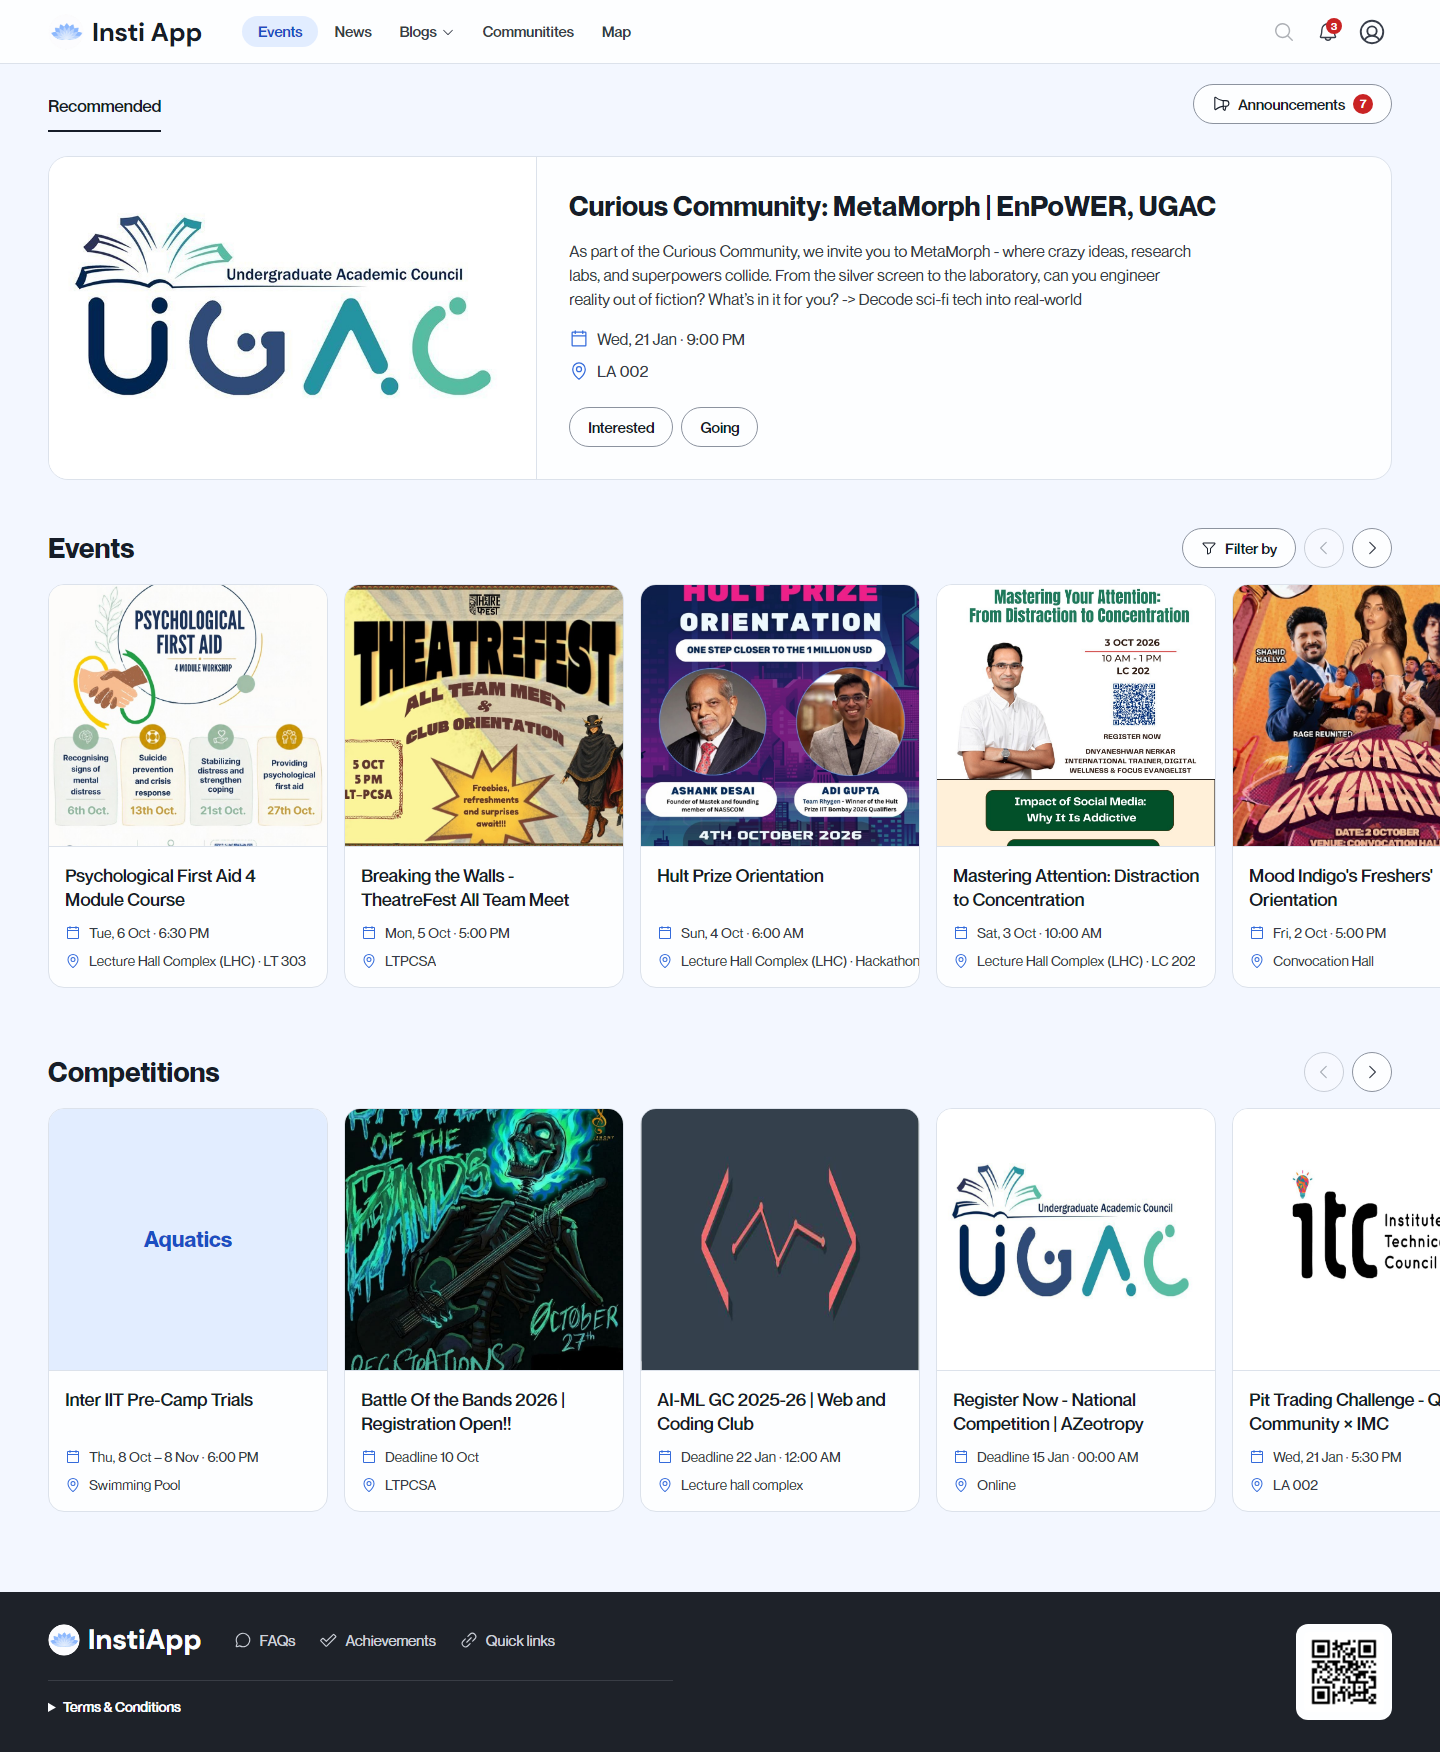
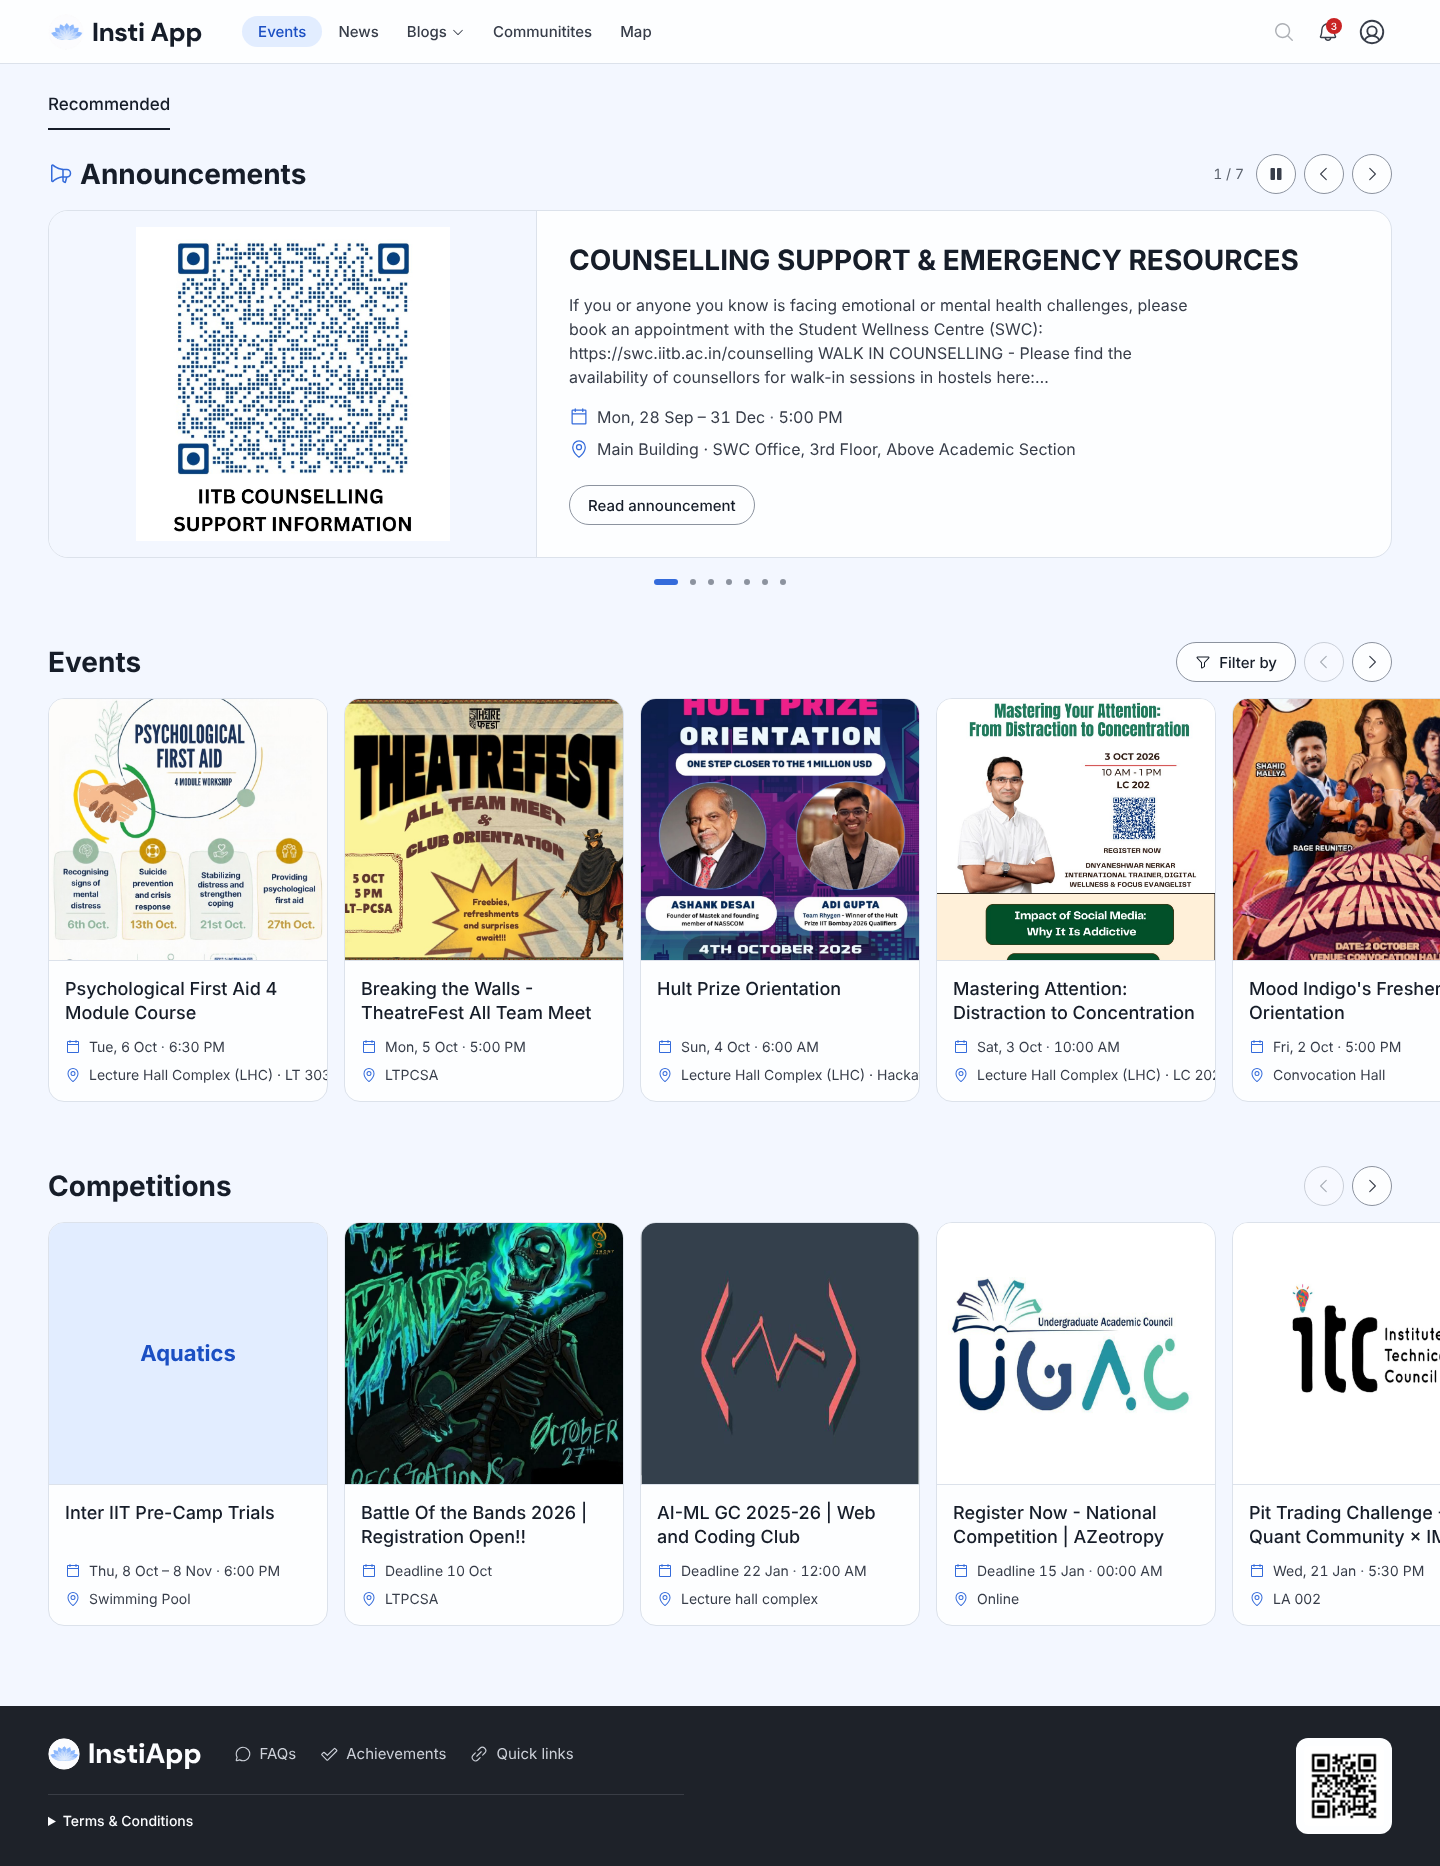
Replace Recommended hero with an Announcements carousel
Removes the Announcements button and its drawer. All announcements now slide
one after another in the hero slot under an "Announcements" heading, with
auto-advance (6s), pause/play, prev/next, dots, a counter and touch swipe.
Auto-advance pauses on hover/focus and is off under reduced motion.

Claude-Session: https://claude.ai/code/session_01UGSq7D7wJQbmhDDKoKNt35

diff --git a/src/components/Browse.tsx b/src/components/Browse.tsx
@@ -1,9 +1,8 @@
-import { CaretLeft, CaretRight, Funnel } from '@phosphor-icons/react'
+import { CaretLeft, CaretRight, Funnel, Megaphone, Pause, Play } from '@phosphor-icons/react'
 import { useEffect, useRef, useState, type ReactNode } from 'react'
 import { Link } from 'react-router-dom'
 import type { InstiEvent } from '../data/types'
 import { hostName, posterFor } from '../lib/events'
-import { useApp } from '../store/useApp'
 import { EventMeta, Poster } from './ui'
 
 /** Feed card — 280px wide (5 per row at 1512), poster on Figma's own 415:391 crop. */
@@ -24,36 +23,139 @@ export function EventCard({ e }: { e: InstiEvent }) {
   )
 }
 
-/** Recommended feature (75:363), two-column and content-height. */
-export function RecommendedHero({ e }: { e: InstiEvent }) {
-  const mine = useApp((s) => s.reactions[e.id])
-  const toggle = useApp((s) => s.toggleReaction)
-  const p = posterFor(e, 'hero')
+/** Announcements carousel — takes the old Recommended hero's slot (75:363), one notice per slide. */
+export function AnnouncementsCarousel({ items }: { items: InstiEvent[] }) {
+  const [index, setIndex] = useState(0)
+  const [paused, setPaused] = useState(false)
+  const [held, setHeld] = useState(false) // hover or keyboard focus inside
+  const reduced = useReducedMotion()
+  const touchX = useRef<number | null>(null)
+  const n = items.length
+  const at = n ? index % n : 0
+  const go = (i: number) => setIndex((i + n) % n)
+
+  useEffect(() => {
+    if (n < 2 || paused || held || reduced) return
+    const t = window.setTimeout(() => setIndex((i) => (i + 1) % n), AUTO_MS)
+    return () => window.clearTimeout(t)
+  }, [at, n, paused, held, reduced])
+
+  if (!n) return null
+  const auto = n > 1 && !reduced
+  const pauseBtn = (testId?: string) =>
+    auto && (
+      <button className="icon-btn border border-rule-strong bg-surface" aria-label={paused ? 'Play announcements' : 'Pause announcements'} onClick={() => setPaused((p) => !p)} data-testid={testId}>
+        {paused ? <Play size={16} weight="fill" /> : <Pause size={16} weight="fill" />}
+      </button>
+    )
+  const stepBtn = (d: 1 | -1, testId?: string) => (
+    <button className="icon-btn border border-rule-strong bg-surface" aria-label={d < 0 ? 'Previous announcement' : 'Next announcement'} onClick={() => go(at + d)} data-testid={testId}>
+      {d < 0 ? <CaretLeft size={18} /> : <CaretRight size={18} />}
+    </button>
+  )
   return (
-    <article className={`grid grid-cols-[minmax(0,1fr)] overflow-hidden rounded-panel border border-rule bg-surface ${p.src ? 'md:grid-cols-[minmax(0,4fr)_minmax(0,7fr)]' : ''}`}>
-      {/* The poster fills its column; the text column sets the card's height. No poster → text only. */}
-      {p.src && (
-        <Link to={`/event/${e.id}`} className="relative block aspect-[16/9] border-b border-rule md:aspect-auto md:border-b-0 md:border-r" aria-label={e.title}>
-          <Poster src={p.src} className="absolute inset-0 size-full" />
-        </Link>
-      )}
-      <div className="flex min-w-0 flex-col gap-4 p-6 md:p-8">
-        <h2 className="text-xl font-bold">
-          <Link to={`/event/${e.id}`} className="hover:underline hover:decoration-1 hover:underline-offset-4">{e.title}</Link>
+    <section
+      aria-roledescription="carousel"
+      aria-labelledby="announcements-heading"
+      data-testid="announcements-carousel"
+      onMouseEnter={() => setHeld(true)}
+      onMouseLeave={() => setHeld(false)}
+      onFocus={() => setHeld(true)}
+      onBlur={(ev) => !ev.currentTarget.contains(ev.relatedTarget) && setHeld(false)}
+    >
+      <div className="flex items-center gap-2">
+        <h2 id="announcements-heading" className="mr-auto flex items-center gap-2 text-xl font-bold">
+          <Megaphone size={24} className="text-accent" aria-hidden />
+          Announcements
         </h2>
-        <p className="line-clamp-4 max-w-[64ch] text-ink-2">{e.heroBlurb ?? e.description}</p>
+        {n > 1 && (
+          <div className="hidden items-center gap-2 sm:flex">
+            <span className="tnum mr-1 text-sm text-muted" data-testid="announcements-count">{at + 1} / {n}</span>
+            {pauseBtn('announcements-pause')}
+            {stepBtn(-1, 'announcements-prev')}
+            {stepBtn(1, 'announcements-next')}
+          </div>
+        )}
+      </div>
+      <div
+        className="mt-4 overflow-hidden rounded-panel border border-rule bg-surface"
+        onTouchStart={(ev) => (touchX.current = ev.touches[0].clientX)}
+        onTouchEnd={(ev) => {
+          const dx = ev.changedTouches[0].clientX - (touchX.current ?? ev.changedTouches[0].clientX)
+          touchX.current = null
+          if (n > 1 && Math.abs(dx) > 40) go(at + (dx < 0 ? 1 : -1))
+        }}
+      >
+        {/* Slides share the tallest one's height, so the page never jumps as they change. */}
+        <div className="flex transition-transform duration-slide ease-out" style={{ transform: `translateX(-${at * 100}%)` }} aria-live={auto && !paused ? 'off' : 'polite'}>
+          {items.map((e, i) => (
+            <AnnouncementSlide key={e.id} e={e} label={`${i + 1} of ${n}`} hidden={i !== at} />
+          ))}
+        </div>
+      </div>
+      {n > 1 && (
+        <div className="mt-3 flex items-center justify-center gap-1">
+          {/* Below sm the header is too narrow for the controls; they sit around the dots instead. */}
+          <span className="mr-auto flex gap-2 sm:hidden">{pauseBtn()}{stepBtn(-1)}</span>
+          {items.map((e, i) => (
+            <button
+              key={e.id}
+              className="group grid h-6 place-items-center px-1"
+              aria-label={`Show announcement ${i + 1}`}
+              aria-current={i === at ? 'true' : undefined}
+              onClick={() => go(i)}
+            >
+              <span className={`block h-1.5 rounded-pill transition-[width,background-color] duration-short ease-out ${i === at ? 'w-6 bg-accent' : 'w-1.5 bg-rule-strong group-hover:bg-muted'}`} />
+            </button>
+          ))}
+          <span className="ml-auto sm:hidden">{stepBtn(1)}</span>
+        </div>
+      )}
+    </section>
+  )
+}
+
+const AUTO_MS = 6000
+
+function AnnouncementSlide({ e, label, hidden }: { e: InstiEvent; label: string; hidden: boolean }) {
+  const p = posterFor(e, 'detail')
+  return (
+    <article
+      aria-roledescription="slide"
+      aria-label={label}
+      aria-hidden={hidden || undefined}
+      // `inert` keeps off-screen slides out of the tab order (React 18 has no typed prop for it).
+      {...(hidden ? { inert: '' } : {})}
+      className="grid w-full shrink-0 grid-cols-[minmax(0,1fr)] md:grid-cols-[minmax(0,4fr)_minmax(0,7fr)]"
+      data-testid="announcement-slide"
+    >
+      <Link to={`/event/${e.id}`} tabIndex={-1} aria-hidden className="relative block aspect-[16/9] border-b border-rule bg-paper md:aspect-auto md:min-h-[320px] md:border-b-0 md:border-r">
+        <Poster src={p.src} cover={false} label={hostName(e)} className={`absolute inset-0 size-full ${p.src ? '!bg-transparent p-4' : ''}`} />
+      </Link>
+      <div className="flex min-w-0 flex-col gap-4 p-6 md:p-8">
+        <h3 className="text-xl font-bold">
+          <Link to={`/event/${e.id}`} className="hover:underline hover:decoration-1 hover:underline-offset-4">{e.title}</Link>
+        </h3>
+        <p className="line-clamp-4 max-w-[64ch] text-ink-2">{e.heroBlurb ?? e.description.replace(/\s*\n+\s*/g, ' ')}</p>
         <EventMeta e={e} size="md" />
-        <div className="mt-auto flex flex-wrap gap-2 pt-2">
-          <button className={`btn ${mine?.interested ? 'border-accent bg-accent-tint text-accent-strong' : 'btn-secondary'}`} aria-pressed={!!mine?.interested} onClick={() => toggle(e.id, 'interested')}>
-            Interested
-          </button>
-          <button className={`btn ${mine?.going ? 'border-accent bg-accent-tint text-accent-strong' : 'btn-secondary'}`} aria-pressed={!!mine?.going} onClick={() => toggle(e.id, 'going')}>
-            Going
-          </button>
+        <div className="mt-auto pt-2">
+          <Link to={`/event/${e.id}`} className="btn btn-secondary">Read announcement</Link>
         </div>
       </div>
     </article>
   )
+}
+
+function useReducedMotion() {
+  const q = '(prefers-reduced-motion: reduce)'
+  const [reduced, setReduced] = useState(() => window.matchMedia(q).matches)
+  useEffect(() => {
+    const m = window.matchMedia(q)
+    const on = () => setReduced(m.matches)
+    m.addEventListener('change', on)
+    return () => m.removeEventListener('change', on)
+  }, [])
+  return reduced
 }
 
 /** A titled row of cards: arrows + scroll-snap, visible thin scrollbar. */

diff --git a/src/pages/HomePage.tsx b/src/pages/HomePage.tsx
@@ -1,8 +1,7 @@
-import { Megaphone, Plus } from '@phosphor-icons/react'
+import { Plus } from '@phosphor-icons/react'
 import { useCallback, useMemo } from 'react'
 import { Link, useNavigate, useSearchParams } from 'react-router-dom'
-import { AnnouncementsSheet } from '../components/AnnouncementsSheet'
-import { CardRow, RecommendedHero } from '../components/Browse'
+import { AnnouncementsCarousel, CardRow } from '../components/Browse'
 import { FilterSheet } from '../components/FilterSheet'
 import { Footer } from '../components/Footer'
 import { ReviewWorkspace } from '../components/ReviewWorkspace'
@@ -36,7 +35,6 @@ export function HomePage() {
   const allEvents = byType(events, 'event')
   const evs = applyFilters(allEvents, filters)
   const comps = byType(events, 'competition')
-  const hero = feedItems(events).find((e) => e.recommended) ?? allEvents[0]
   const reviewing = tab !== 'recommended'
   const waitingByType = useMemo(() => {
     const w = { event: 0, competition: 0, announcement: 0 }
@@ -47,19 +45,12 @@ export function HomePage() {
   const header = (
     <Page className="flex flex-wrap items-end gap-x-6 gap-y-3 pt-5">
       <Tabs role={role} active={tab} pending={pendingForGsec} rejected={rejectedForGsha} />
-      <div className="mb-2 ml-auto flex gap-2">
-        <button className="btn btn-secondary" onClick={() => openDrawer('announcements')} data-testid="announcements-button">
-          <Megaphone size={18} aria-hidden />
-          Announcements
-          <CountBadge n={announcements.length} label={`${announcements.length} announcements`} />
+      {role !== 'student' && (
+        <button className="btn btn-primary mb-2 ml-auto" onClick={() => nav('/event/new')} data-testid="fab-add">
+          <Plus size={16} weight="bold" aria-hidden />
+          New event
         </button>
-        {role !== 'student' && (
-          <button className="btn btn-primary" onClick={() => nav('/event/new')} data-testid="fab-add">
-            <Plus size={16} weight="bold" aria-hidden />
-            New event
-          </button>
-        )}
-      </div>
+      )}
     </Page>
   )
 
@@ -78,7 +69,7 @@ export function HomePage() {
           <main>
             {header}
             <Page className="grid grid-cols-[minmax(0,1fr)] gap-12 pt-6">
-              {hero && <RecommendedHero e={hero} />}
+              <AnnouncementsCarousel items={announcements} />
               <CardRow
                 title="Events"
                 items={evs}
@@ -101,7 +92,6 @@ export function HomePage() {
       )}
 
       {drawer === 'filter' && <FilterSheet onClose={closeDrawer} resultCount={evs.length} days={weekdaysOf(allEvents)} />}
-      {drawer === 'announcements' && <AnnouncementsSheet items={announcements} onClose={closeDrawer} />}
     </>
   )
 }

diff --git a/qa/demo-loop.spec.ts b/qa/demo-loop.spec.ts
@@ -115,7 +115,6 @@ test('feed = live insti.app posts + restored Figma posts; filters; sheets close'
   await expect(page.getByTestId('events-row')).toContainText('Literarium All Team Meet')
   await expect(page.getByTestId('competitions-row')).toContainText('AI-ML GC 2025-26 | Web and Coding Club')
   await expect(events.first()).toContainText(LIVE.events.find((e) => e.type === 'event')!.title)
-  await expect(page.getByRole('heading', { level: 2, name: 'Curious Community: MetaMorph | EnPoWER, UGAC' })).toBeVisible()
 
   // Day chips come from the data; pick the first one and check the count it promises.
   await page.getByTestId('filter-by').click()
@@ -133,13 +132,21 @@ test('feed = live insti.app posts + restored Figma posts; filters; sheets close'
   await expect(events).toHaveCount(1)
   await expect(events.first()).toContainText('Peer Connect: A Listening Listening Circle for PhD')
 
-  // Announcements: live notices + the four Figma ones.
-  await page.getByTestId('announcements-button').click()
-  const panel = page.getByTestId('announcements-panel')
-  await expect(panel.getByRole('link')).toHaveCount(liveCount('announcement') + 4)
-  await expect(panel).toContainText('Surbahaar auditions')
-  await page.getByTestId('announcements-panel-close').click()
-  await expect(panel).toHaveCount(0)
+  // Announcements slide in the hero slot: live notices + the four Figma ones.
+  const carousel = page.getByTestId('announcements-carousel')
+  const slides = carousel.getByTestId('announcement-slide')
+  const total = liveCount('announcement') + 4
+  await expect(slides).toHaveCount(total)
+  await expect(carousel.getByRole('heading', { name: 'Announcements' })).toBeVisible()
+  await page.getByTestId('announcements-pause').click()
+  await expect(page.getByTestId('announcements-count')).toHaveText(`1 / ${total}`)
+  await page.getByTestId('announcements-next').click()
+  await expect(page.getByTestId('announcements-count')).toHaveText(`2 / ${total}`)
+  await expect(slides.nth(1)).not.toHaveAttribute('aria-hidden', 'true')
+  await page.getByTestId('announcements-prev').click()
+  await page.getByTestId('announcements-prev').click()
+  await expect(page.getByTestId('announcements-count')).toHaveText(`${total} / ${total}`)
+  await expect(slides.last()).toContainText('Surbahaar auditions')
 })
 
 test('review queue: J/K move, R opens the reason field, Esc cancels', async ({ page }) => {

diff --git a/qa/shots.spec.ts b/qa/shots.spec.ts
@@ -18,7 +18,6 @@ const SHOTS: Shot[] = [
   { name: 'event-gsec-1440', path: `/event/${LIVE.pendingSubmission}`, role: 'gsec', ...LAPTOP },
   { name: 'form-gsha-1440', path: '/event/new', role: 'gsha', ...LAPTOP, full: true },
   { name: 'filter-1440', path: '/home?drawer=filter', role: 'student', ...LAPTOP },
-  { name: 'announcements-1440', path: '/home?drawer=announcements', role: 'student', ...LAPTOP },
   { name: 'approvals-gsec-1280', path: '/home?tab=approvals', role: 'gsec', w: 1280, h: 800 },
   { name: 'home-student-390', path: '/home', role: 'student', w: 390, h: 844, full: true },
   { name: 'event-student-390', path: `/event/${LIVE.withPoster.id}`, role: 'student', w: 390, h: 844, full: true },

diff --git a/src/styles/tokens.css b/src/styles/tokens.css
@@ -55,7 +55,7 @@
 
   --ease-out: cubic-bezier(0.16, 1, 0.3, 1);
   --ease-in: cubic-bezier(0.7, 0, 0.84, 0);
-  --dur-press: 120ms; --dur-short: 160ms; --dur-sheet-in: 240ms; --dur-sheet-out: 180ms;
+  --dur-press: 120ms; --dur-short: 160ms; --dur-sheet-in: 240ms; --dur-sheet-out: 180ms; --dur-slide: 480ms;
 
   --topbar-h: 64px;
 }

diff --git a/tailwind.config.js b/tailwind.config.js
@@ -76,6 +76,7 @@ export default {
         short: '160ms',
         'sheet-in': '240ms',
         'sheet-out': '180ms',
+        slide: '480ms',
       },
       maxWidth: {
         page: '1440px',

diff --git a/README.md b/README.md
@@ -42,7 +42,7 @@ The feed combines two sources:
 | Source | What it adds |
 |---|---|
 | **Live insti.app** ([`src/data/live-feed.json`](src/data/live-feed.json)) | 24 posts from 13 bodies: **19 events, 2 competitions, 3 announcements**. Every post starting since **1 Sep 2026**, plus anything still running (e.g. the year-long Industrial Learning Program). 21 posters in `public/assets/live/`. Listed first in each row, newest first. |
-| **Figma mock** ([`src/data/figma-seed.ts`](src/data/figma-seed.ts)) | The original posts, restored: the **Recommended** hero (Curious Community), 4 events, 4 competitions, 4 announcements, and the 5 GSHA submissions behind Event status / Event Approvals. Listed after the live posts. |
+| **Figma mock** ([`src/data/figma-seed.ts`](src/data/figma-seed.ts)) | The original posts, restored: 4 events, 4 competitions (incl. Curious Community, the old Recommended hero), 4 announcements (they slide in the home carousel), and the 5 GSHA submissions behind Event status / Event Approvals. Listed after the live posts. |
 
 **Refreshing the live posts.** `npm run sync:feed` ([`scripts/sync-feed.mjs`](scripts/sync-feed.mjs)) snapshots the public API
 behind https://www.insti.app/feed (`https://gymkhana.iitb.ac.in/instiapp/api/events`; `api.insti.app`

diff --git a/design.md b/design.md
@@ -16,9 +16,10 @@ modern-minimal (product UI). One accent, quiet surfaces, type carries hierarchy.
 - **Review workspace** (GSHA "Event status", GSec "Event Approvals") — master–detail:
   queue list left (status filter + search), detail panel right. No footer.
   Inline decisions, optimistic approve with Undo, keyboard J/K · A · R · E.
-- **Browse** (Recommended home, all roles) — Ecosystem index: one recommended
-  feature, then rows by type (Events, Competitions) with arrows + scroll-snap.
-  Filters and Announcements open as right-hand sheets.
+- **Browse** (Recommended home, all roles) — Ecosystem index: an Announcements
+  carousel in the hero slot (auto-advances every 6s; pause, arrows, dots, swipe;
+  still under reduced motion), then rows by type (Events, Competitions) with
+  arrows + scroll-snap. Filters open as a right-hand sheet.
 - **Detail** (event page) — split: poster sticky left, details scroll right.
   Role-aware action bar shares the review panel's component.
 - **Form** (create / edit) — split like Detail: poster drop zone left, labelled
